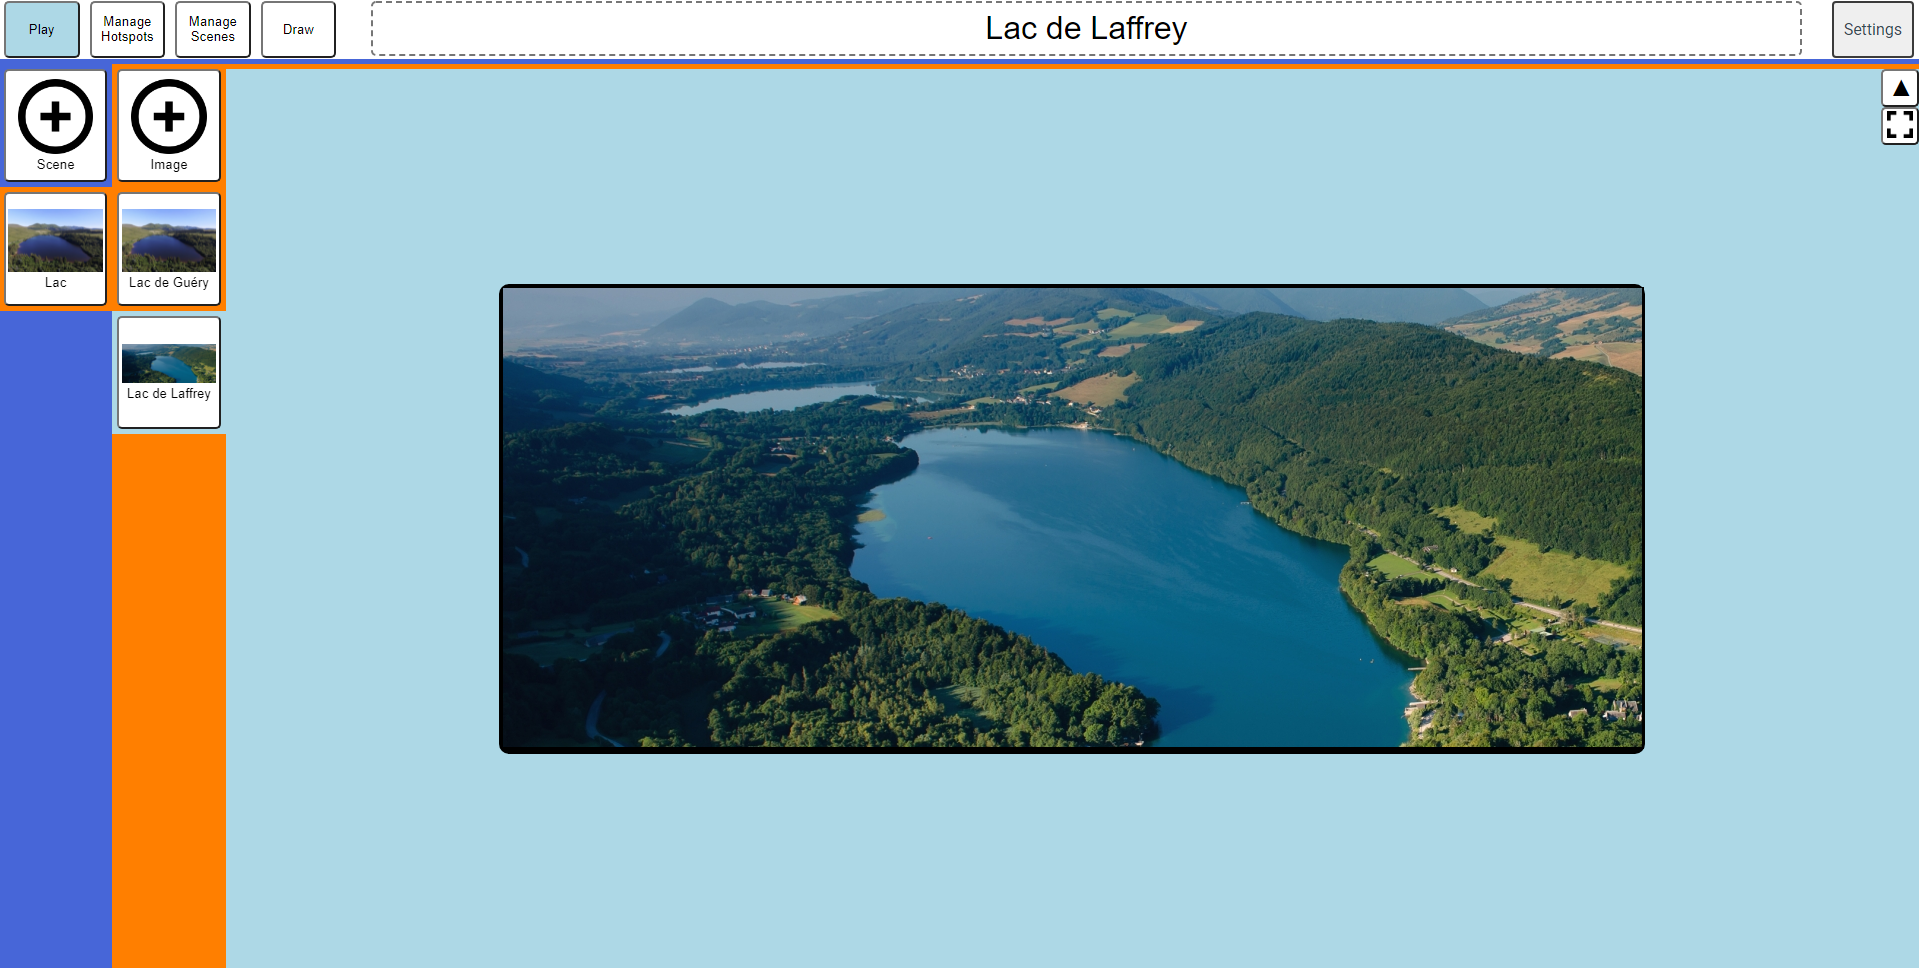
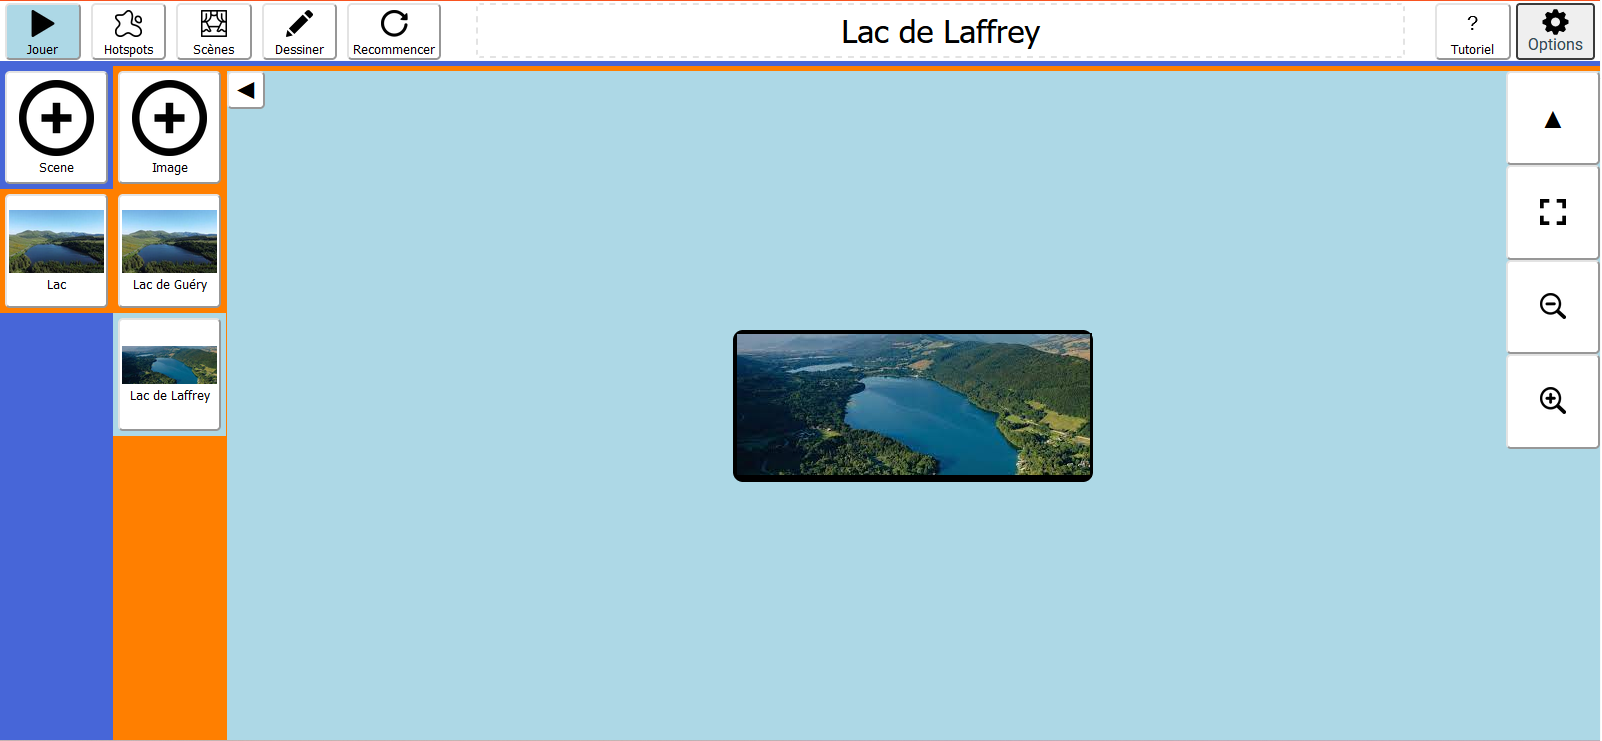
v1
to check how it looks like

diff --git a/fr/_pages/userGuide.md b/fr/_pages/userGuide.md
@@ -9,7 +9,7 @@ toc_sticky: true
 
 ## Commencement
 
-{% include figure image_path="/assets/images/interaactionScene.png" alt="InteraactionScene" caption="Voilà à quoi ressemble InteraactionScene lors de la 1er connexion." %}
+{% include figure image_path="/assets/images/interaactionScene2.png" alt="InteraactionScene" caption="Voilà à quoi ressemble InteraactionScene lors de la 1er connexion." %}
 
 ### Ajouter une scène
 
@@ -31,12 +31,12 @@ Dans l'exemple ci-dessous, nous souhaitons créer une scène qui a pour nom "Lac
 
 Voici ce que nous obtenons après la validation :
 
-{% include figure image_path="/assets/images/userGuideImages/exampleScene.png" alt="Exemple d'une scène" caption="Ma scène 'Lac' avec pour image le lac de Guéry a bien été créer." %}
+{% include figure image_path="/assets/images/userGuideImages/exampleScene.png" alt="Exemple d'une scène" caption="Ma scène 'Lac' avec pour image le lac de Guéry a bien été créée." %}
 
 ### Ajouter une image
 
-Une image ne peux être ajoutée seulement dans une scène, sinon le bouton permettant d'ajouter une image ne sera pas disponible.<br />
-Une fois que notre scène est crée, il faut cliquer sur le bouton "Image" avec un "+" entouré d'un cercle noir à droite du bouton qui permet d'ajouter une scène.
+Une image ne peut être ajoutée seulement dans une scène, sinon le bouton permettant d'ajouter une image ne sera pas disponible.<br />
+Une fois que notre scène est créée, il faut cliquer sur le bouton "Image" avec un "+" entouré d'un cercle noir à droite du bouton qui permet d'ajouter une scène.
 
 {% include figure image_path="/assets/images/userGuideImages/imageButton.png" alt="Bouton image" %}
 
@@ -51,7 +51,7 @@ Dans l'exemple ci-dessous, nous ajoutons une autre image à la scène "Lac", cel
 
 {% include figure image_path="/assets/images/userGuideImages/exampleAddImage.png" alt="Exemple ajout d'une scène" %}
 
-Après validation voici ce qu'on obtient :
+Après validation, voici ce qu'on obtient :
 
 {% include figure image_path="/assets/images/userGuideImages/exampleImage.png" alt="Exemple ajout d'une scène" %}
 
@@ -59,25 +59,30 @@ La nouvelle image du lac de Laffrey a bien été ajoutée à la scène "Lac". Ce
 
 ## Bouton "Jouer"
 
-{% include figure image_path="/assets/images/userGuideImages/playButton.png" alt="Bouton Jouer" caption="Ce bouton permet de jouer le son associé au hotspot." %}
+{% include figure image_path="/assets/images/userGuideImages/playButton.jpg" alt="Bouton Jouer" caption="Ce bouton permet de jouer l'action associé à un hotspot." %}
 
 ## Bouton "Gérer les hotspots"
 
 {% include figure image_path="/assets/images/userGuideImages/manageHotspotsButton.png" alt="Bouton gérer les hotspots" caption="Ce bouton permet de gérer les hotspots de nos images." %}
 
-Une fois que l'on a cliqué sur le bouton "hotspots", 3 nouveaux boutons apparaissent et permettent :
+Une fois que l'on a cliqué sur le bouton "Hotspots", 4 nouveaux boutons apparaissent et permettent :
 
 * D'ajouter un hotspot à une image.
 * De modifier les hotspots d'une image.
 * De supprimer les hotspots d'une image.
+* De supprimer tous les hotspots d'une image.
 
 {% include figure image_path="/assets/images/userGuideImages/buttonsManageHotspots.png" alt="Les boutons du mode gérer les hotspots" %}
 
 ### Ajouter un hotspot
 
-Pour ajouter un hotspot à notre image, il faut cliquer sur le bouton "Add Hotspot".
+Pour ajouter un hotspot à notre image, il faut cliquer sur le bouton "Ajouter un hotspot".
 
 {% include figure image_path="/assets/images/userGuideImages/addHotspotButton.png" alt="Bouton ajouter un hotspot" %}
+
+Un menu se déroulera et vous permettra de choisir la forme de votre hotspot. Il suffira d'y cliquer dessus.
+
+{% include figure image_path="/assets/images/userGuideImages/addHotspotButtonDropdown.png" alt="Les formes d'un hotspot" caption="Trois formes : Courbe, Rectangle et Cercle." %}
 
 Il faut ensuite presser le clic gauche de la souris et tracer la zone que l'on souhaite définir comme hotspot, tout en gardant le clic enfoncé.
 
